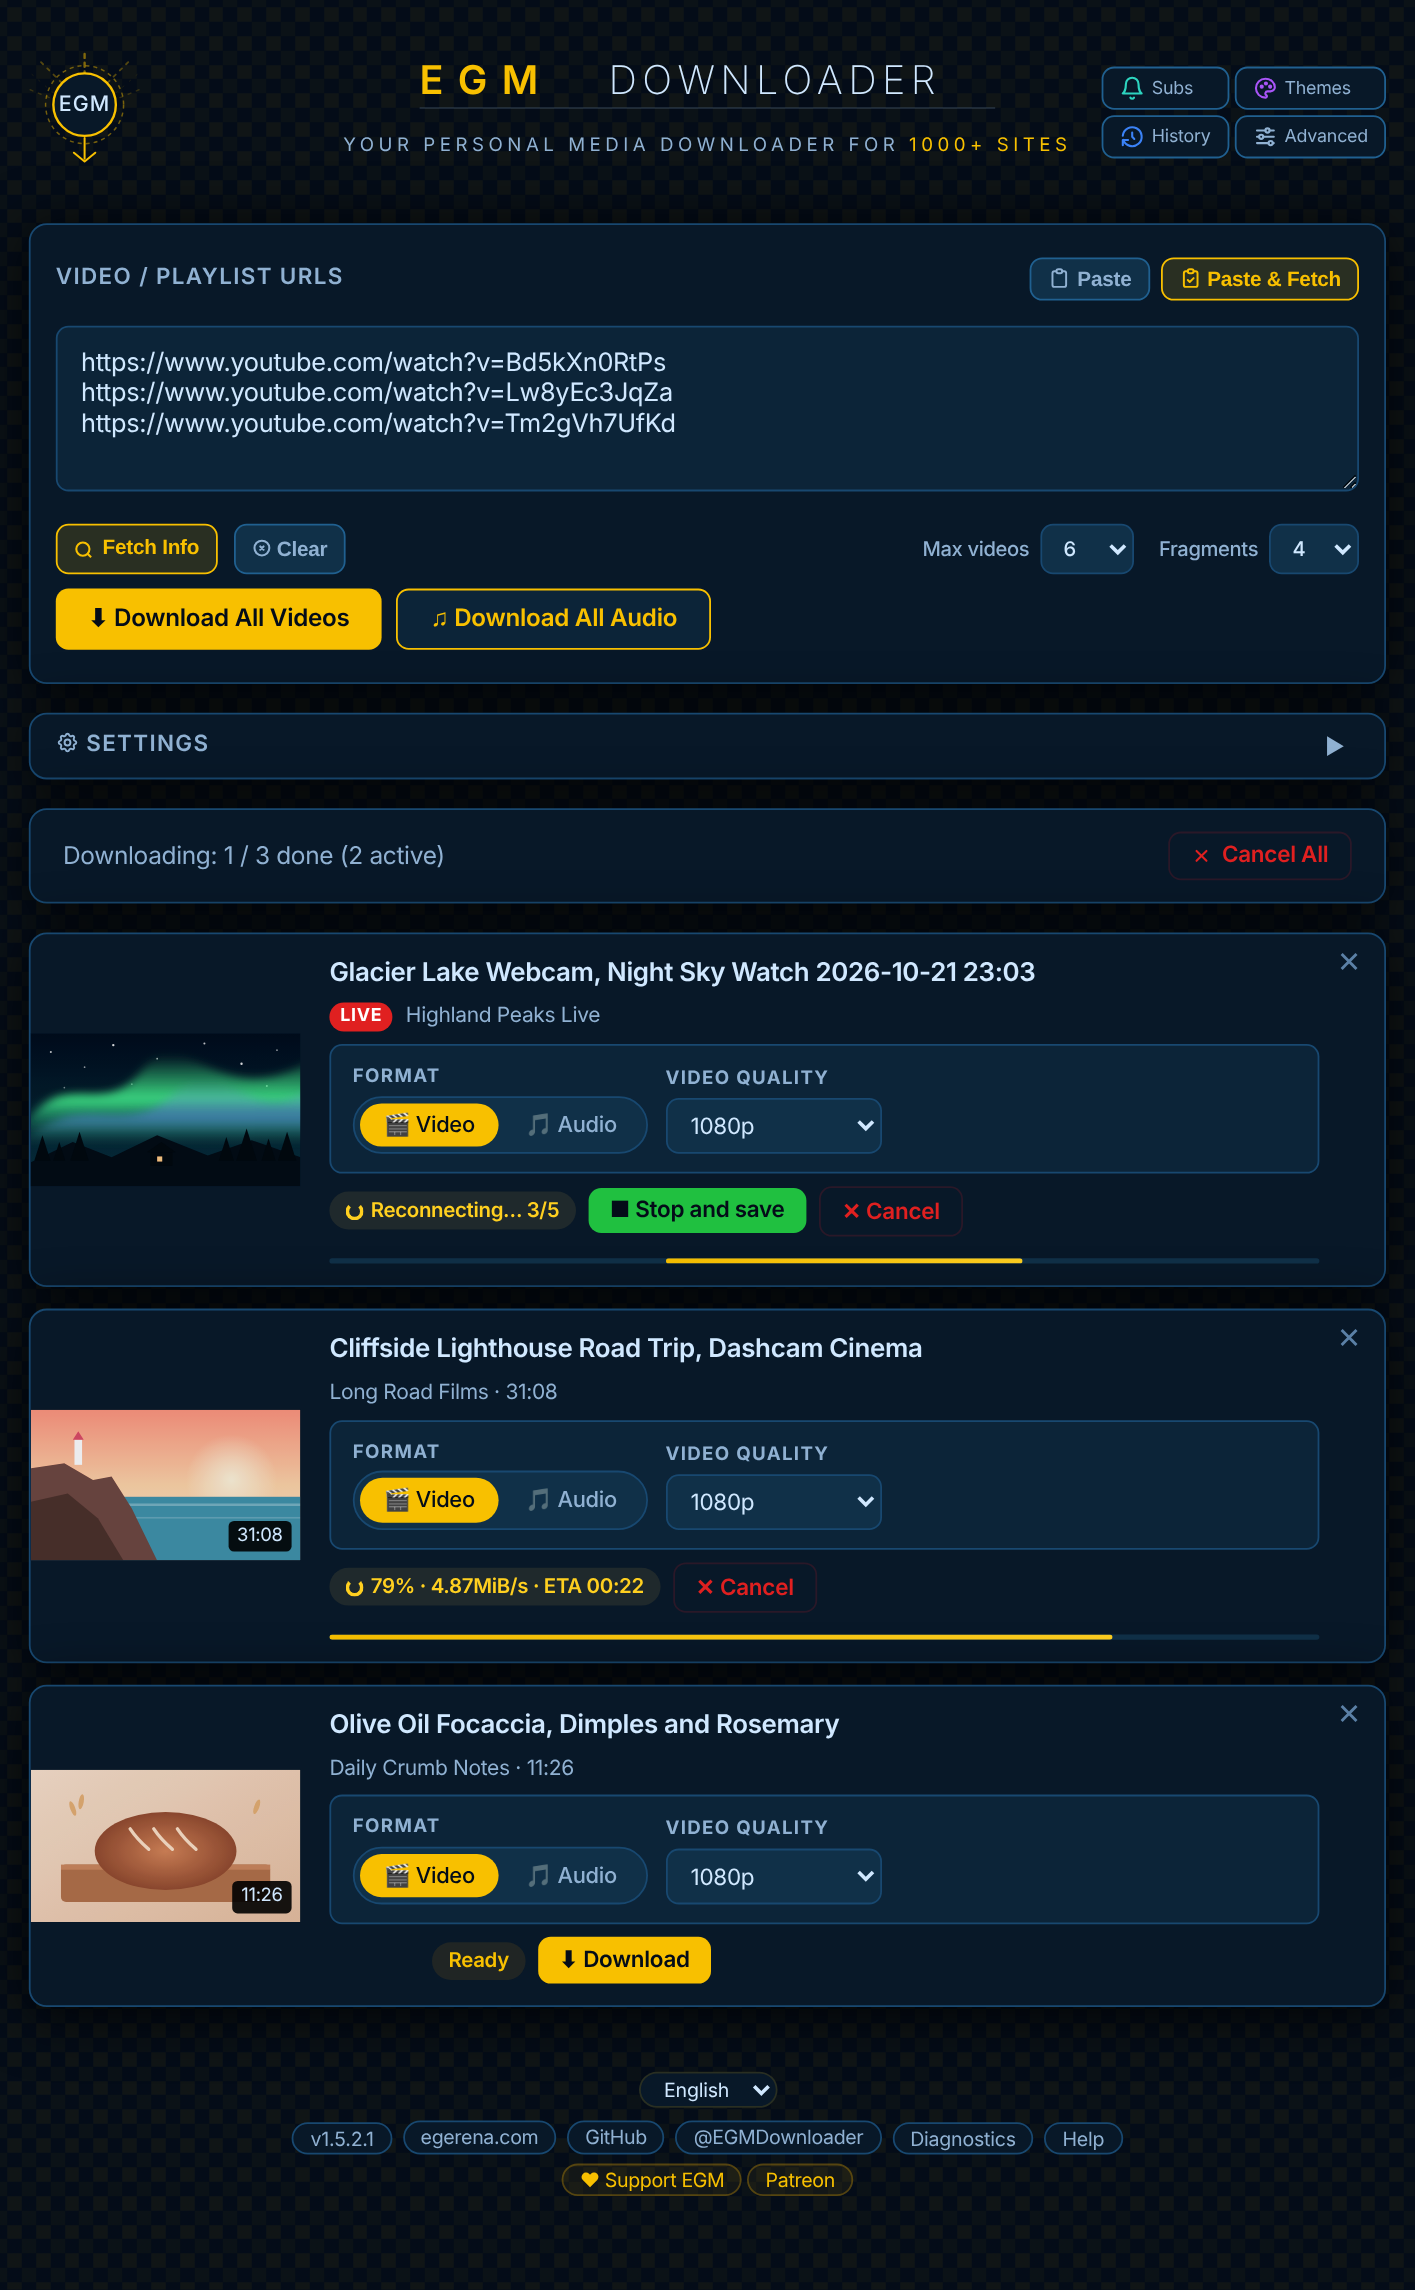
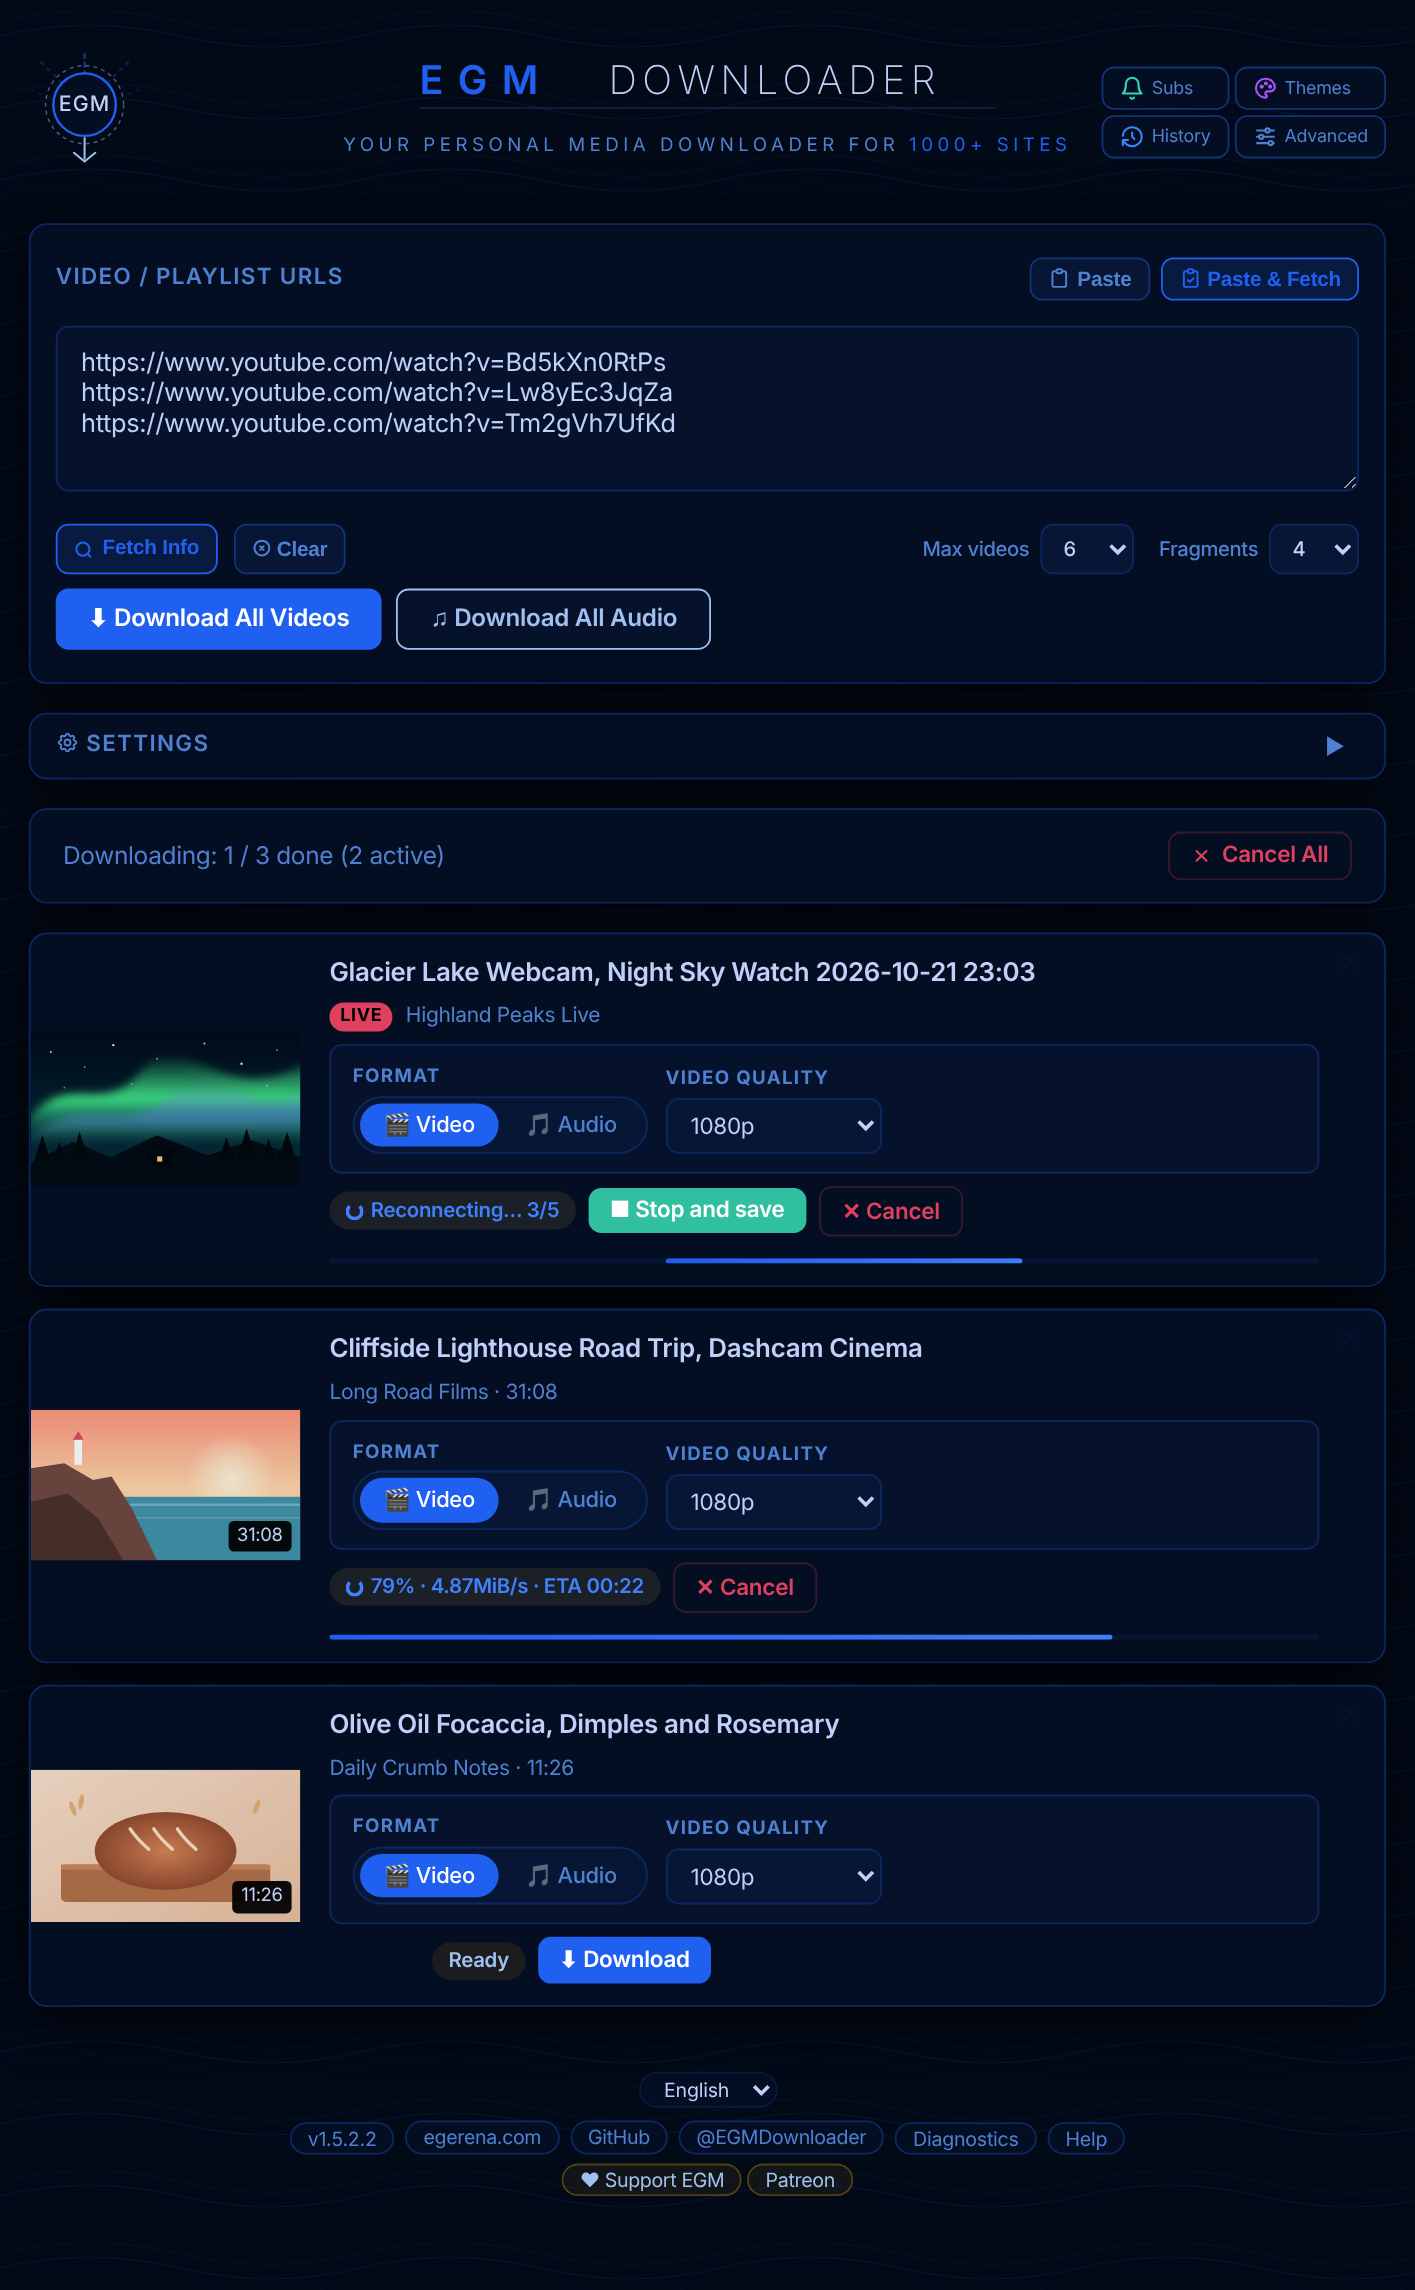
release: v1.5.2.2 Build 175 — SNAKE EYES, screenshots, SHA256s, CONTRIBUTING

diff --git a/README.md b/README.md
@@ -86,7 +86,7 @@ A side by side look at one well known alternative, using details you can check y
 
 https://github.com/user-attachments/assets/ccfeb78d-4287-40e8-aced-9bebadb11184
 
-> 📸 *Screenshots of v1.5.2.1, RITOCCO. The UI is identical across Windows, macOS, and Linux.*
+> 📸 *Screenshots of v1.5.2.2, SNAKE EYES. The UI is identical across Windows, macOS, and Linux.*
 
 <table>
   <tr>
@@ -95,12 +95,12 @@ https://github.com/user-attachments/assets/ccfeb78d-4287-40e8-aced-9bebadb11184
       <br/><sub><b>Splash Screen</b></sub>
     </td>
     <td align="center" width="33%">
-      <a href="screenshots/02-main-ui.png"><img src="screenshots/02-main-ui.png" width="260" alt="Main UI in Arabic, Halloween theme"/></a>
-      <br/><sub><b>Main UI</b> (Arabic, Halloween theme)</sub>
+      <a href="screenshots/02-main-ui.png"><img src="screenshots/02-main-ui.png" width="260" alt="Main UI in Arabic, Anubis theme"/></a>
+      <br/><sub><b>Main UI</b> (Arabic, Anubis theme)</sub>
     </td>
     <td align="center" width="33%">
-      <a href="screenshots/03-advanced-panel.png"><img src="screenshots/03-advanced-panel.png" width="260" alt="Advanced Panel, Little Blue Box theme"/></a>
-      <br/><sub><b>Advanced Panel</b> (Little Blue Box theme)</sub>
+      <a href="screenshots/03-advanced-panel.png"><img src="screenshots/03-advanced-panel.png" width="260" alt="Advanced Panel, Quetzalcoatl theme"/></a>
+      <br/><sub><b>Advanced Panel</b> (Quetzalcoatl theme)</sub>
     </td>
   </tr>
 </table>
@@ -108,25 +108,12 @@ https://github.com/user-attachments/assets/ccfeb78d-4287-40e8-aced-9bebadb11184
 <table>
   <tr>
     <td align="center" width="50%">
-      <a href="screenshots/12-card-order.png"><img src="screenshots/12-card-order.png" width="308" alt="Main window with the Settings panel moved above the links card, Neon Punk theme"/></a>
-      <br/><sub><b>Card Order</b> (Neon Punk theme)</sub>
+      <a href="screenshots/12-card-order.png"><img src="screenshots/12-card-order.png" width="308" alt="Main window with the Settings panel moved above the links card, Red Planet theme"/></a>
+      <br/><sub><b>Card Order</b> (Red Planet theme)</sub>
     </td>
     <td align="center" width="50%">
-      <a href="screenshots/13-card-drag.png"><img src="screenshots/13-card-drag.png" width="308" alt="Dragging the Settings panel up over the links card by its handle, Havana theme"/></a>
-      <br/><sub><b>Card Order, Dragging</b> (Havana theme)</sub>
-    </td>
-  </tr>
-</table>
-
-<table>
-  <tr>
-    <td align="center" width="50%">
-      <a href="screenshots/08-live-streams.png"><img src="screenshots/08-live-streams.png" width="271" alt="Live streams recording and a download running, Windows XP theme"/></a>
-      <br/><sub><b>Live Streams</b> (Windows XP theme)</sub>
-    </td>
-    <td align="center" width="50%">
-      <a href="screenshots/09-live-reconnecting.png"><img src="screenshots/09-live-reconnecting.png" width="371" alt="A live stream reconnecting, Mushroom Kingdom theme"/></a>
-      <br/><sub><b>Live Stream Reconnecting</b> (Mushroom Kingdom theme)</sub>
+      <a href="screenshots/13-card-drag.png"><img src="screenshots/13-card-drag.png" width="308" alt="Dragging the Settings panel up over the links card by its handle, Antimatter theme"/></a>
+      <br/><sub><b>Card Order, Dragging</b> (Antimatter theme)</sub>
     </td>
   </tr>
 </table>
@@ -134,25 +121,12 @@ https://github.com/user-attachments/assets/ccfeb78d-4287-40e8-aced-9bebadb11184
 <table>
   <tr>
     <td align="center" width="50%">
-      <a href="screenshots/10-quit-when-done.png"><img src="screenshots/10-quit-when-done.png" width="308" alt="Quit when done countdown, Sugar Riot theme"/></a>
-      <br/><sub><b>Quit When Done</b> (Sugar Riot theme)</sub>
+      <a href="screenshots/08-live-streams.png"><img src="screenshots/08-live-streams.png" width="271" alt="Live streams recording and a download running, Disco Fever theme"/></a>
+      <br/><sub><b>Live Streams</b> (Disco Fever theme)</sub>
     </td>
     <td align="center" width="50%">
-      <a href="screenshots/06-advanced-plugins.png"><img src="screenshots/06-advanced-plugins.png" width="308" alt="Advanced Panel with the plugins list, GameCube theme"/></a>
-      <br/><sub><b>Advanced Panel, Plugins</b> (GameCube theme)</sub>
-    </td>
-  </tr>
-</table>
-
-<table>
-  <tr>
-    <td align="center" width="50%">
-      <a href="screenshots/04-all-themes.png"><img src="screenshots/04-all-themes.png" width="459" alt="All Themes, Valhalla theme"/></a>
-      <br/><sub><b>All Themes</b> (Valhalla theme)</sub>
-    </td>
-    <td align="center" width="50%">
-      <a href="screenshots/11-theme-creator.png"><img src="screenshots/11-theme-creator.png" width="320" alt="Theme Creator with a custom theme, Citron Night"/></a>
-      <br/><sub><b>Theme Creator</b> (custom Citron Night theme)</sub>
+      <a href="screenshots/09-live-reconnecting.png"><img src="screenshots/09-live-reconnecting.png" width="371" alt="A live stream reconnecting, Ice Giant theme"/></a>
+      <br/><sub><b>Live Stream Reconnecting</b> (Ice Giant theme)</sub>
     </td>
   </tr>
 </table>
@@ -160,12 +134,38 @@ https://github.com/user-attachments/assets/ccfeb78d-4287-40e8-aced-9bebadb11184
 <table>
   <tr>
     <td align="center" width="50%">
-      <a href="screenshots/05-subscriptions.png"><img src="screenshots/05-subscriptions.png" width="444" alt="Subscriptions, Hylian theme"/></a>
-      <br/><sub><b>Subscriptions</b> (Hylian theme)</sub>
+      <a href="screenshots/10-quit-when-done.png"><img src="screenshots/10-quit-when-done.png" width="308" alt="Quit when done countdown, Ocean theme"/></a>
+      <br/><sub><b>Quit When Done</b> (Ocean theme)</sub>
     </td>
     <td align="center" width="50%">
-      <a href="screenshots/07-download-history.png"><img src="screenshots/07-download-history.png" width="334" alt="Download History, Woodgrain theme"/></a>
-      <br/><sub><b>Download History</b> (Woodgrain theme)</sub>
+      <a href="screenshots/06-advanced-plugins.png"><img src="screenshots/06-advanced-plugins.png" width="308" alt="Advanced Panel with the plugins list, Acid theme"/></a>
+      <br/><sub><b>Advanced Panel, Plugins</b> (Acid theme)</sub>
+    </td>
+  </tr>
+</table>
+
+<table>
+  <tr>
+    <td align="center" width="50%">
+      <a href="screenshots/04-all-themes.png"><img src="screenshots/04-all-themes.png" width="459" alt="All Themes, Electric Dawn theme"/></a>
+      <br/><sub><b>All Themes</b> (Electric Dawn theme)</sub>
+    </td>
+    <td align="center" width="50%">
+      <a href="screenshots/11-theme-creator.png"><img src="screenshots/11-theme-creator.png" width="320" alt="Theme Creator with a custom theme, Cobalt Sand"/></a>
+      <br/><sub><b>Theme Creator</b> (custom Cobalt Sand theme)</sub>
+    </td>
+  </tr>
+</table>
+
+<table>
+  <tr>
+    <td align="center" width="50%">
+      <a href="screenshots/05-subscriptions.png"><img src="screenshots/05-subscriptions.png" width="444" alt="Subscriptions, Euphoria theme"/></a>
+      <br/><sub><b>Subscriptions</b> (Euphoria theme)</sub>
+    </td>
+    <td align="center" width="50%">
+      <a href="screenshots/07-download-history.png"><img src="screenshots/07-download-history.png" width="334" alt="Download History, Hangang theme"/></a>
+      <br/><sub><b>Download History</b> (Hangang theme)</sub>
     </td>
   </tr>
 </table>
@@ -175,8 +175,8 @@ https://github.com/user-attachments/assets/ccfeb78d-4287-40e8-aced-9bebadb11184
 ### Windows
 🔗 **Platform page:** [windows.egerena.com](https://windows.egerena.com)
 **Latest:** v1.5.2.2  
-**Download:** [EGMd.zip](https://egerena.com/apps/EGMd.zip) (679 KB · ~800 MB after install)  
[1 lines of base64/hex data omitted]
+**Download:** [EGMd.zip](https://egerena.com/apps/EGMd.zip) (686 KB · ~800 MB after install)  
[1 lines of base64/hex data omitted]
 **Install:** Extract `EGMd.zip`, run `egm-setup.exe` and follow the installer. Then paste a video URL, fetch the info, and click Download.  
 **Requirements:** Windows 10/11 (64-bit) · **Python 3.11+** — install from [python.org](https://www.python.org/downloads/) and tick "Add Python to PATH"  
 **Code Signed:** Installer is signed with an IV code signing certificate. SmartScreen may show a warning on first run until the certificate builds reputation.
@@ -184,8 +184,8 @@ https://github.com/user-attachments/assets/ccfeb78d-4287-40e8-aced-9bebadb11184
 
 ### Windows Portable
 **Latest:** v1.5.2.2  
-**Download:** [EGMd-portable.zip](https://egerena.com/apps/EGMd-portable.zip) (692 KB · ~1 GB after first run)  
[1 lines of base64/hex data omitted]
+**Download:** [EGMd-portable.zip](https://egerena.com/apps/EGMd-portable.zip) (702 KB · ~1 GB after first run)  
[1 lines of base64/hex data omitted]
 **Install:** Extract `EGMd-portable.zip` and run `EGM Downloader.exe`. Settings and data stay in the same folder, so you can take it anywhere.  
 **Requirements:** Windows 10/11 (64-bit) · **Python 3.10+** — install from [python.org](https://www.python.org/downloads/) and tick “Add Python to PATH”  
 **No installer, no registry** — runs from any folder or USB drive (system Python 3.10+ is used only to bootstrap; the app then downloads a private Python and runs on that. Node, Electron, ffmpeg & Deno are fetched on first run, and a newer Electron after an app update that needs one)  
@@ -195,8 +195,8 @@ https://github.com/user-attachments/assets/ccfeb78d-4287-40e8-aced-9bebadb11184
 ### macOS
 🔗 **Platform page:** [mac.egerena.com](https://mac.egerena.com)
 **Latest:** v1.5.2.2  
-**Download:** [EGMdM.zip](https://egerena.com/apps/EGMdM.zip) (144 MB · ~300 MB after install)  
[1 lines of base64/hex data omitted]
+**Download:** [EGMdM.zip](https://egerena.com/apps/EGMdM.zip) (145 MB · ~300 MB after install)  
[1 lines of base64/hex data omitted]
 **Install:** Extract `EGMdM.zip`, open the `.dmg`, drag "EGM Downloader" to Applications, and launch it.  
 **Requirements:** macOS 13.0 (Ventura) or later · Apple Silicon (M1–M5) only  
 **Signed & Notarized:** This build is Apple notarized — runs without Gatekeeper warnings
@@ -205,8 +205,8 @@ https://github.com/user-attachments/assets/ccfeb78d-4287-40e8-aced-9bebadb11184
 ### Linux
 🔗 **Platform page:** [linux.egerena.com](https://linux.egerena.com)
 **Latest:** v1.5.2.2  
-**Download:** [EGMdL.zip](https://egerena.com/apps/EGMdL.zip) (171 MB · ~300 MB after install)  
[1 lines of base64/hex data omitted]
+**Download:** [EGMdL.zip](https://egerena.com/apps/EGMdL.zip) (172 MB · ~300 MB after install)  
[1 lines of base64/hex data omitted]
 **Install:** Extract `EGMdL.zip`, make it executable with `chmod +x "EGM Downloader.AppImage"`, then double-click to launch (or run it from a terminal).  
 **Format:** AppImage (Universal)  
 **Supported Distros:** Ubuntu 20.04+, Mint 20+, Pop!_OS, Fedora 39+, Arch, and more
@@ -295,7 +295,7 @@ ReClip is the starting point, and it is intentionally small. Here is what this p
 | **Beyond single downloads** | Bulk paste of URLs, files saved to a downloads folder ([Features](https://github.com/averygan/reclip#features)) | Subscriptions with a live download queue, searchable history, GPU conversion, 10 languages, 500 themes (30 seasonal) |
 | **Staying current** | `reclip.sh` updates yt-dlp on every start ([script](https://github.com/averygan/reclip/blob/main/reclip.sh)) | In app updates for yt-dlp and ffmpeg, plus an app update checker |
 
-ReClip stays deliberately small: a [single Python file backend](https://github.com/averygan/reclip#features), [two dependencies](https://github.com/averygan/reclip#stack) and an [MIT license](https://github.com/averygan/reclip/blob/main/LICENSE). EGM Downloader trades that simplicity for more features and a bigger download (144 MB on macOS, 171 MB on Linux).
+ReClip stays deliberately small: a [single Python file backend](https://github.com/averygan/reclip#features), [two dependencies](https://github.com/averygan/reclip#stack) and an [MIT license](https://github.com/averygan/reclip/blob/main/LICENSE). EGM Downloader trades that simplicity for more features and a bigger download (145 MB on macOS, 172 MB on Linux).
 
 Big thanks to [@averygan](https://github.com/averygan) for ReClip, you sparked the idea that became this project. 🙏 This is my first major project, and I'm excited to keep learning and building tools that make technology accessible to everyone. 🚀
 

diff --git a/CONTRIBUTING.md b/CONTRIBUTING.md
@@ -62,7 +62,7 @@ Steps:
 Expected: All videos download
 Actual: Only first 50 videos download
 
-Environment: Windows 11, EGM Downloader v1.5.2.1
+Environment: Windows 11, EGM Downloader v1.5.2.2
 ```
 
 ### Suggesting Features
